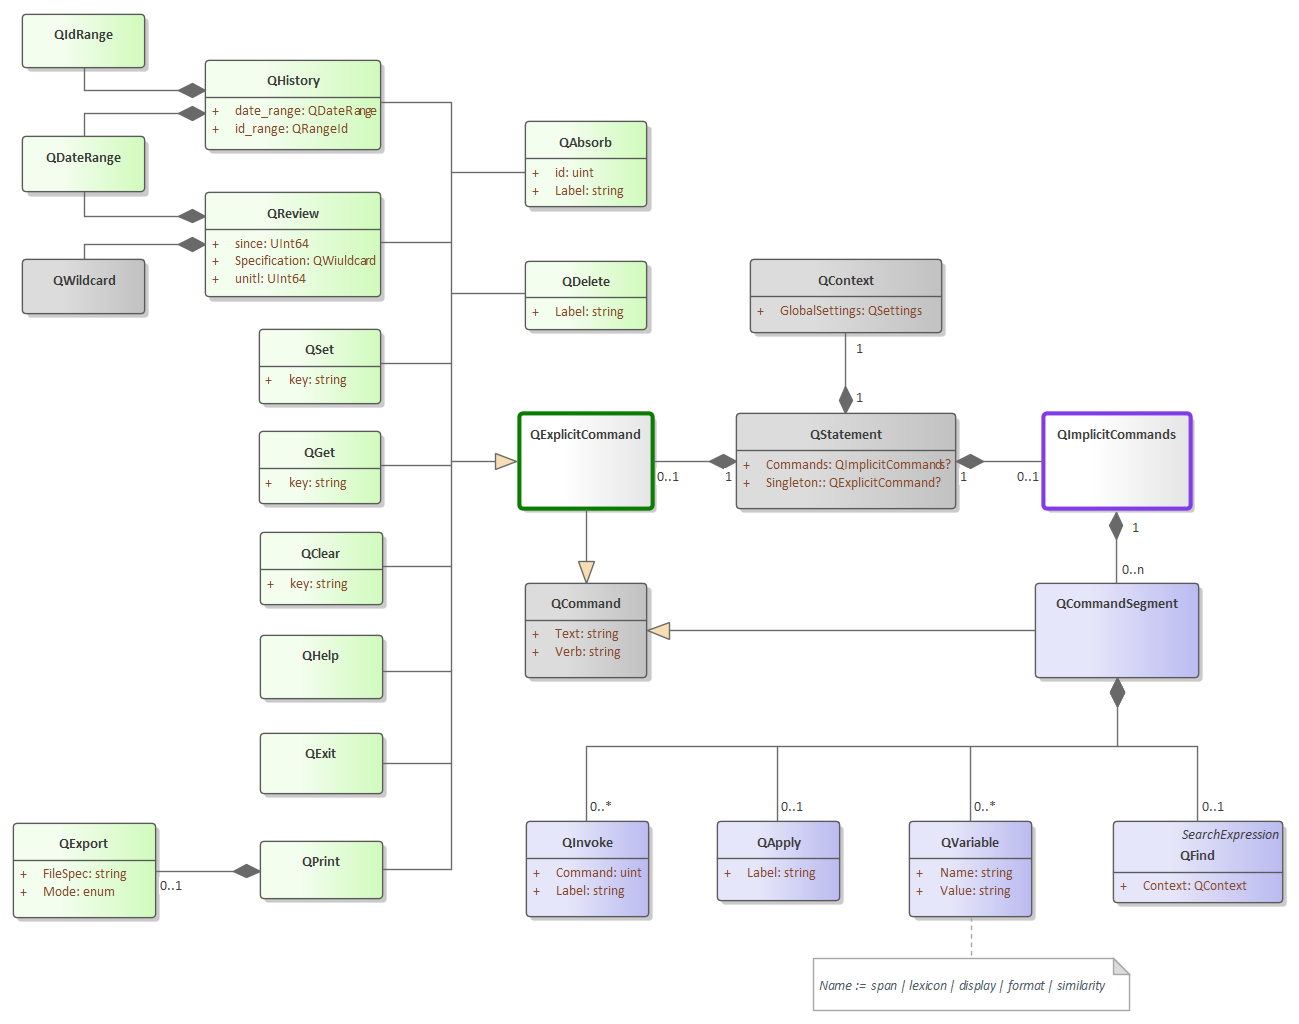
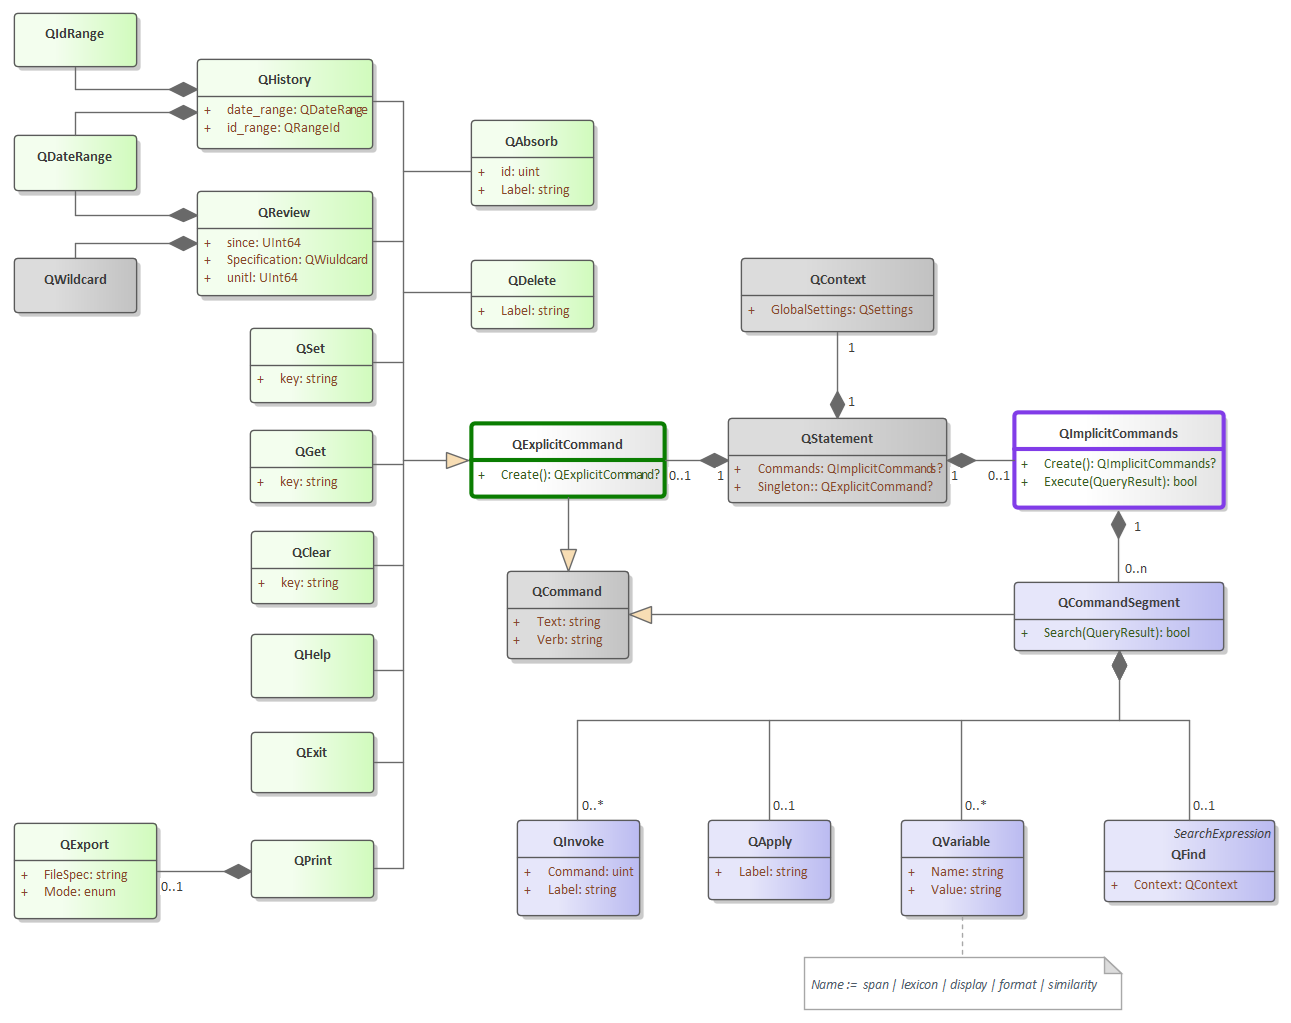
Adapted framework to be more expression-centric wrt to results

diff --git a/AVEngine.cs b/AVEngine.cs
@@ -74,7 +74,8 @@
                                     statement.Context.AddHistory(item);
                                 }
                                 // TO DO: Execute
-                                return (statement, null /*query*/, true, "ok") ;
+                                bool ok = statement.Commands.Execute();
+                                return (statement, null /*query*/, ok, ok ? "ok" : "TO DO: Add error message") ;
                             }
                             else
                             {
